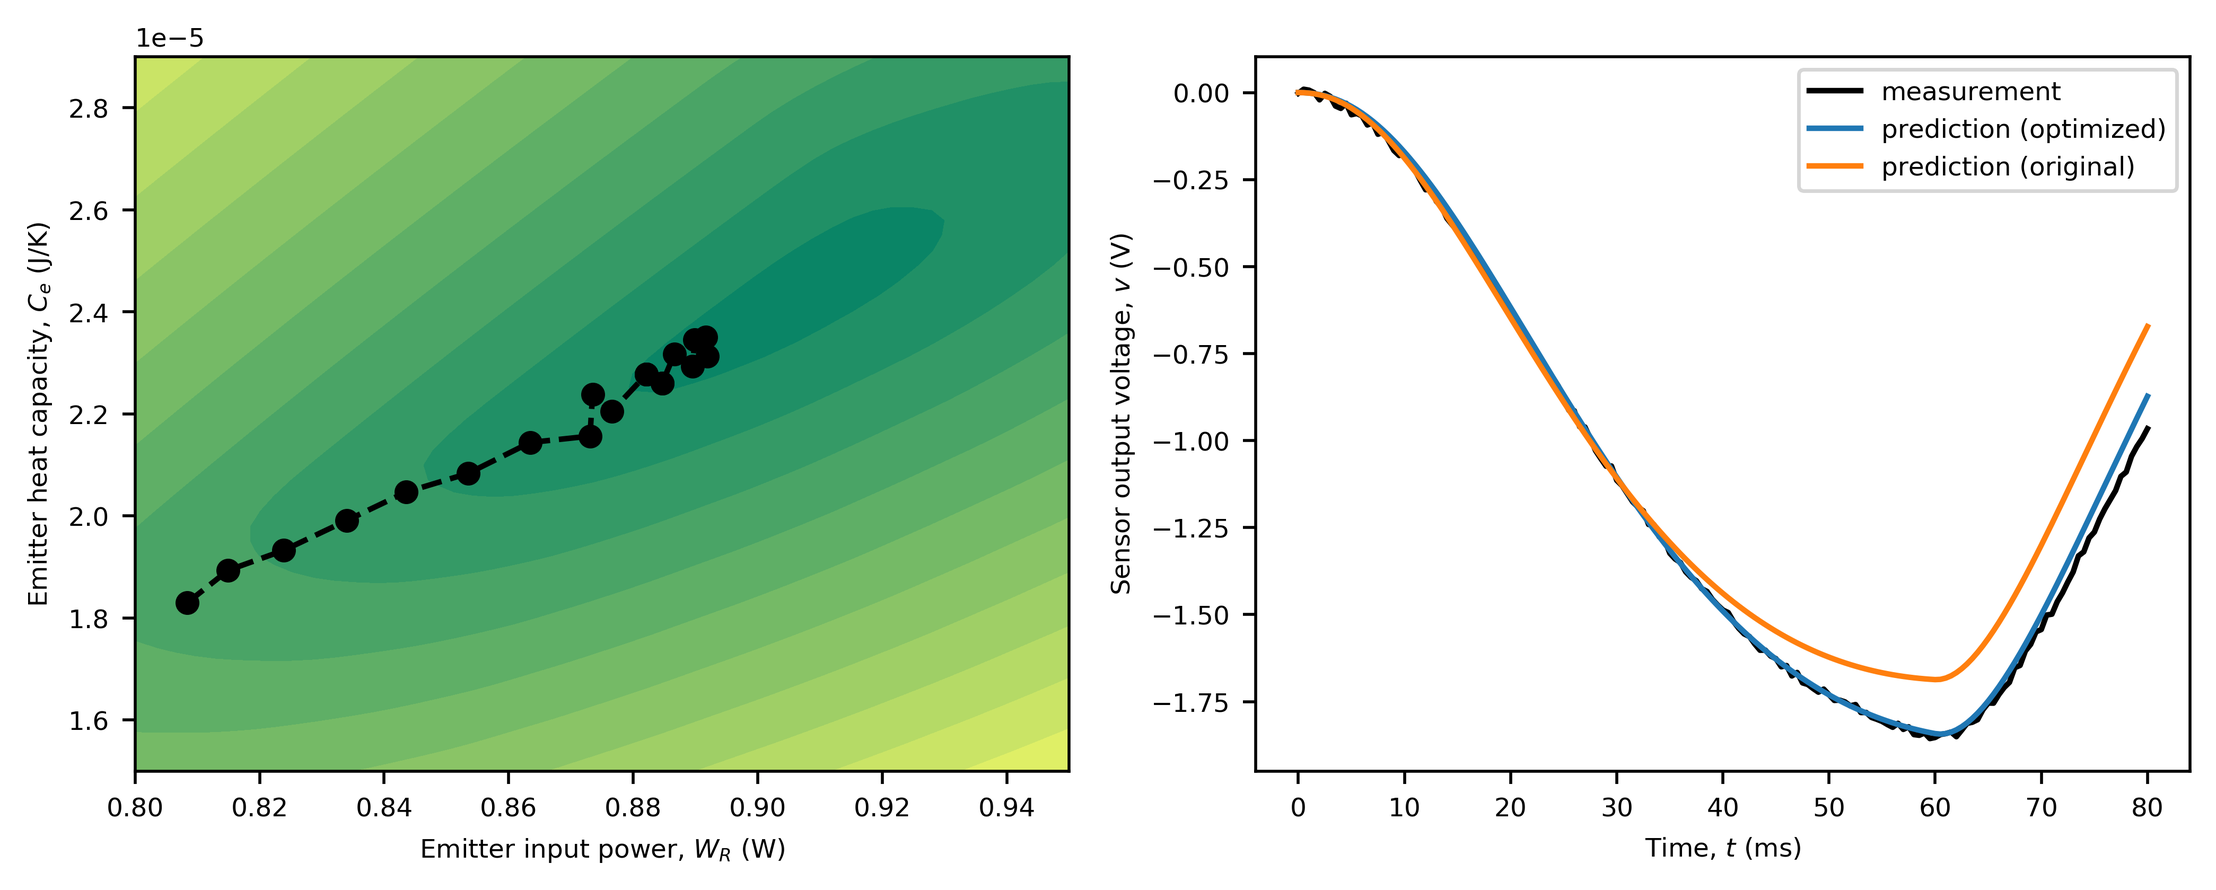
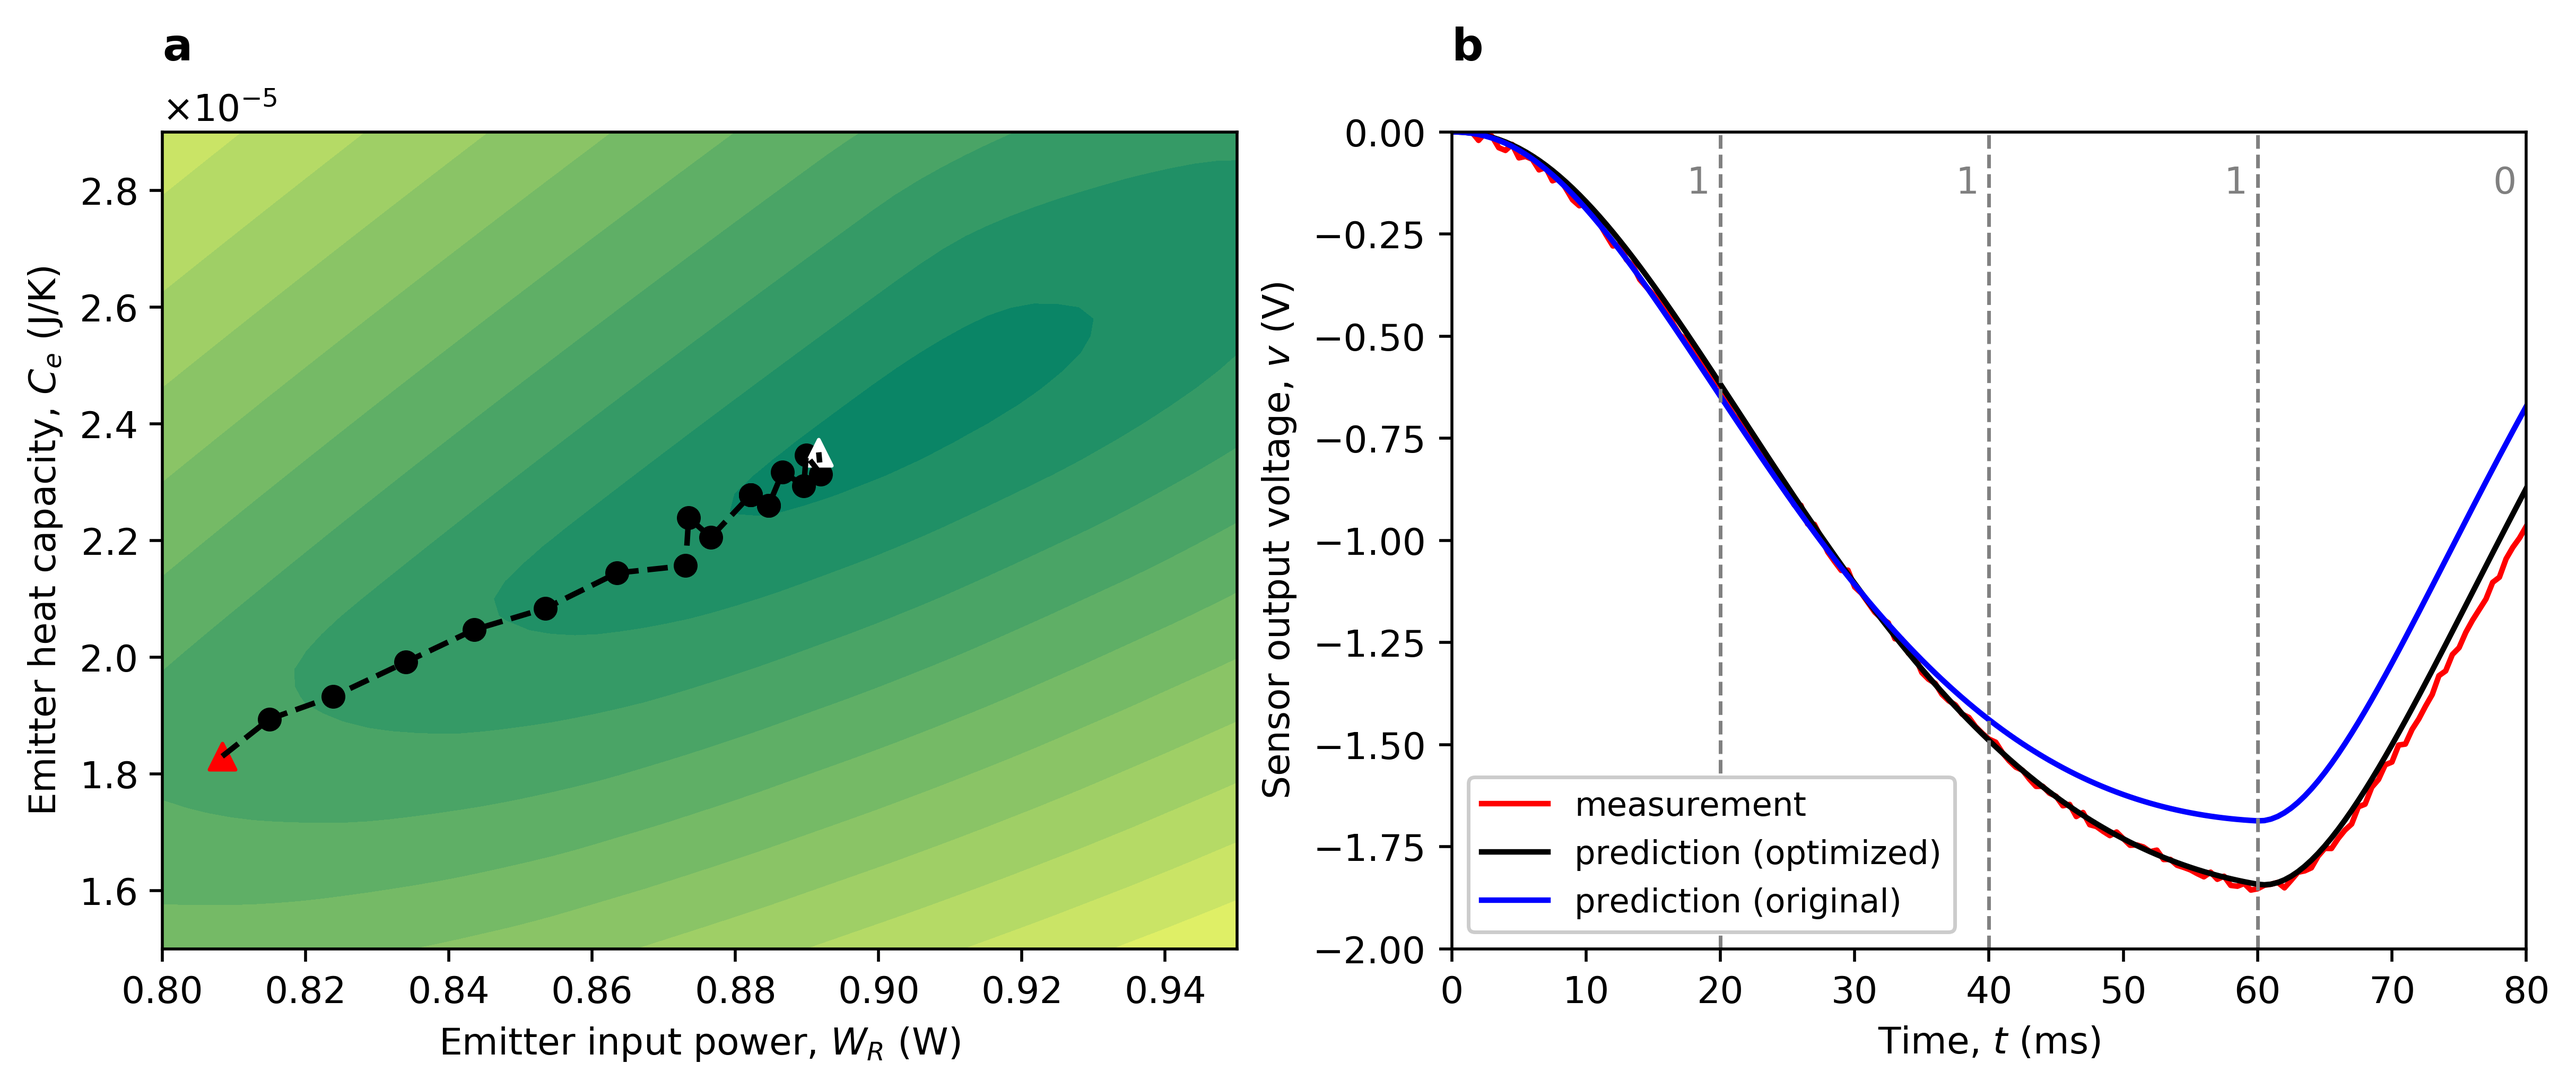
todo: cpd

diff --git a/Lab/tx_cal/txcal_plot.py b/Lab/tx_cal/txcal_plot.py
@@ -57,30 +57,45 @@ if __name__ == '__main__':
     with open('./result/tx_cal/contour.pkl', 'rb') as f:
         X, Y, Z = pickle.load(f)
 
-    s = 7
-    params = {'axes.labelsize': s, 'xtick.labelsize': s, 'ytick.labelsize': s, 'legend.fontsize': s}
+    s = 10
+    params = {'axes.labelsize': s, 'xtick.labelsize': s, 'ytick.labelsize': s, 'legend.fontsize': 9}
     plt.rcParams.update(params)
 
-    fig = plt.figure(figsize=(10, 3.5))
+    fig = plt.figure(figsize=(11.5, 4))
 
     plt.subplot(121)
     plt.contourf(X, Y, Z, levels=10, cmap='summer')
     plt.xlim([0.8, 0.95])
     plt.ylim([1.5e-5, 2.9e-5])
-    plt.ticklabel_format(axis='y', style='sci', scilimits=(-5, -5))
+    plt.ticklabel_format(axis='y', style='sci', scilimits=(-5, -5), useMathText=True)
     plt.xlabel('Emitter input power, $W_R$ (W)')
     plt.ylabel('Emitter heat capacity, $C_e$ (J/K)')
-    plt.scatter(trace[:, 0], trace[:, 1], c='k', s=30, marker='o')
+    plt.scatter(trace[1:-1, 0], trace[1:-1, 1], c='k', s=30, marker='o')
+    plt.scatter(trace[0, 0], trace[0, 1], c='r', s=50, marker='^')
+    plt.scatter(trace[-1, 0], trace[-1, 1], c='w', s=50, marker='^')
     plt.plot(trace[:, 0], trace[:, 1], c='k', linestyle='--')
+    plt.title('a\n', loc='left', weight='bold')
 
     plt.subplot(122)
     t = np.linspace(0, 80, 161)
-    plt.plot(t, frame, 'k', label='measurement')
-    plt.plot(t, pred_new, label='prediction (optimized)')
-    plt.plot(t, pred_old, label='prediction (original)')
+    plt.xlim(0, 80)
+    plt.ylim(-2, 0)
+    plt.plot(t, frame, 'r', label='measurement')
+    plt.plot(t, pred_new, 'k', label='prediction (optimized)')
+    plt.plot(t, pred_old, 'b', label='prediction (original)')
     plt.xlabel('Time, $t$ (ms)')
     plt.ylabel('Sensor output voltage, $v$ (V)')
-    plt.legend()
+    plt.legend(loc='lower left', framealpha=1.0)
+
+    ax = plt.gca()
+    for i in [20, 40, 60, 80]:
+        if i != 80:
+            ax.axvline(i, c='grey', ls='--', lw=1.0)
+            plt.text(x=i - 2.5, y=-0.15, s='1', c='grey')
+        else:
+            plt.text(x=i - 2.5, y=-0.15, s='0', c='grey')
+
+    plt.title('b\n', loc='left', weight='bold')
 
     plt.savefig('./result/tx_cal/txcal.png', bbox_inches='tight', dpi=500)
     plt.close()

diff --git a/Lab/cpd/cpd_plot_new.py b/Lab/cpd/cpd_plot_new.py
@@ -1,0 +1,48 @@
+import pickle
+import numpy as np
+import ruptures as rpt
+import matplotlib.pyplot as plt
+
+if __name__ == '__main__':
+    with open('./result/sync/cpd_plot.pkl', 'rb') as f:
+        data = pickle.load(f)
+    print(data['bkp_m'], data['bkp_p'])
+
+    # rpt.show.display(data['pre_cpd'], data['bkp_m'], figsize=(10, 6))
+    # plt.show()
+    t = np.linspace(0, 80, 161)
+
+    s = 7
+    params = {'axes.labelsize': s, 'xtick.labelsize': s, 'ytick.labelsize': s, 'legend.fontsize': s}
+    plt.rcParams.update(params)
+
+    plt.figure(figsize=(6, 2.5))
+
+    plt.ylim(-2, 0)
+    plt.ylabel('Measured and predicted\nsensor output voltage $v$ (V)')
+
+    plt.xlim(0, 80)
+    plt.xlabel('Time, $t$ (ms)')
+
+    bkp_p = data['bkp_p'][:-1]
+    plt.plot(t, data['p'], color='k', label='predicted')
+    plt.scatter(t[bkp_p], data['p'][bkp_p], c='k', s=30, marker='*')
+
+    bkp_m = data['bkp_m'][:-1]
+    plt.plot(t, data['pre_cpd'], color='r', label='sychronized after\nmatching phase')
+    plt.scatter(t[bkp_m], data['pre_cpd'][bkp_m], s=30, c='r', marker='*')
+
+    plt.plot(t, data['post_cpd'], color='b', label='sychronized after\njitter-reduction phase')
+    plt.scatter(t[bkp_p], data['post_cpd'][bkp_p], c='b', s=30, marker='*')
+    plt.legend(loc='lower left', framealpha=1.0)
+
+    ax = plt.gca()
+    for i in [20, 40, 60, 80]:
+        if i != 80:
+            ax.axvline(i, c='grey', ls='--', lw=1.0)
+            plt.text(x=i - 2.5, y=-0.15, s='1', c='grey')
+        else:
+            plt.text(x=i - 2.5, y=-0.15, s='0', c='grey')
+
+    plt.savefig('./result/sync/cpd.png', bbox_inches='tight', dpi=500)
+    plt.close()

diff --git a/Lab/cpd/cpd_plot.py b/Lab/cpd/cpd_plot.py
@@ -16,28 +16,28 @@ if __name__ == '__main__':
     params = {'axes.labelsize': s, 'xtick.labelsize': s, 'ytick.labelsize': s, 'legend.fontsize': s}
     plt.rcParams.update(params)
 
-    fig, axs = plt.subplots(2, 1, sharex=True, figsize=(6, 3.5))
+    fig, axs = plt.subplots(1, 1, sharex=True, figsize=(6, 2.5))
     plt.subplots_adjust(hspace=.2)
 
     bkp_m = data['bkp_m'][:-1]
-    ax = axs[0]
+    ax = axs
     ax.plot(t, data['pre_cpd'], color='r', label='unaligned')
     ax.scatter(t[bkp_m], data['pre_cpd'][bkp_m], s=30, c='r', marker='*')
     for v in t[bkp_m]:
         ax.axvline(v, c='r', ls='--')
     ax.set_ylim(-2, 0)
-    ax.set_ylabel('Measured sensor voltage\n$v$ (V)')
+    ax.set_ylabel('Measured and predicted sensor voltage\n$v$ (V)')
 
     bkp_p = data['bkp_p'][:-1]
-    ax = axs[1]
-    ax.plot(t, data['p'], color='k')
+    ax = axs
+    ax.plot(t, data['p'], color='k', label='predicted')
     ax.scatter(t[bkp_p], data['p'][bkp_p], c='k', s=30, marker='*')
     for v in t[bkp_p]:
         ax.axvline(v, c='k', ls='--')
     ax.set_ylim(-2, 0)
-    ax.set_ylabel('Predicted sensor voltage\n$v$ (V)')
+    # ax.set_ylabel('Predicted sensor voltage\n$v$ (V)')
 
-    ax = axs[0]
+    ax = axs
     ax.plot(t, data['post_cpd'], color='b', label='aligned')
     ax.scatter(t[bkp_p], data['post_cpd'][bkp_p], c='b', s=30, marker='*')
     for v in t[bkp_p]:
@@ -47,7 +47,7 @@ if __name__ == '__main__':
     # ax.set_ylim(-2, 0)
     # ax.set_ylabel('Measured sensor voltage\naligned, $v$ (V)')
 
-    ax = axs[-1]
+    ax = axs
     ax.set_xlim(-1, 81)
     ax.set_xlabel('Time, $t$ (ms)')
 
